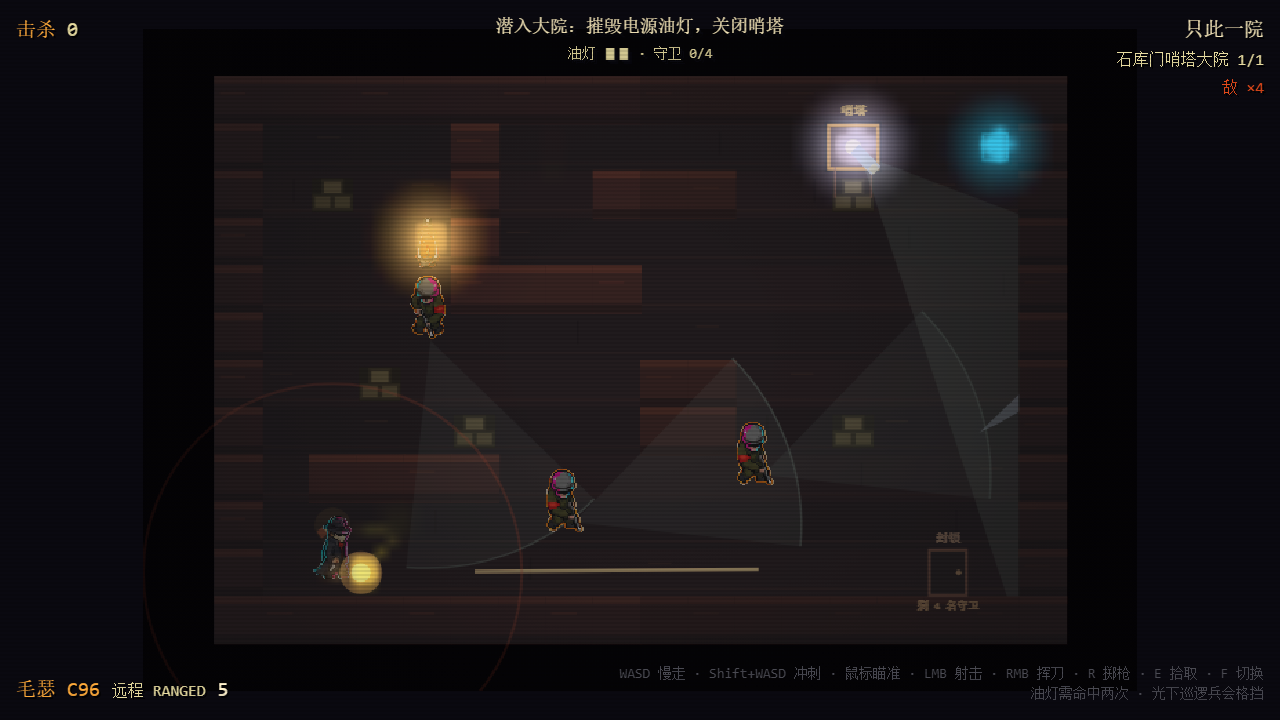
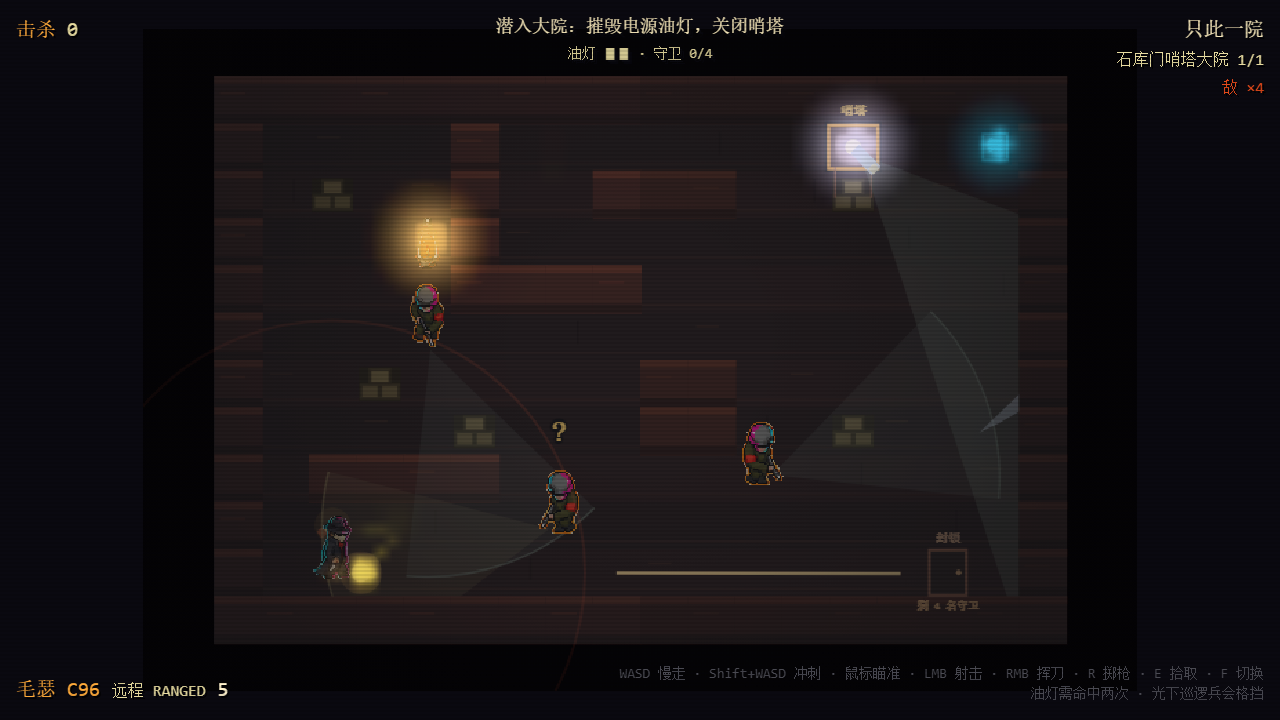
fix(hotline): B66 子弹拆灯与近战同权 — 灯死即光池坍缩 + 塔楼断电 (Simulation.ts 弹道拆灯路径启动 invalidationTimer, 消除 RC 光池残留 artifact); light-break-check.mjs 增子弹拆灯回归段 (真实弹道, 非确定性规避); 刷新 smoke 截图

diff --git a/7_hotlineShanghai/src/core/simulation/Simulation.ts b/7_hotlineShanghai/src/core/simulation/Simulation.ts
@@ -269,6 +269,13 @@ export class Simulation implements ISimulation {
               if (result.hit) {
                 this.emit({ kind: 'lightSmash', lightId: lamp.id, position: { ...lamp.position }, hp: result.hp, state: result.state, cause: 'weapon' });
                 this.emitNoise('lamp_smash', lamp.position, LAMP_SMASH_NOISE_RADIUS);
+                // B66 修复:子弹拆灯与近战拆灯同权——灯死即启动光池坍缩 + 塔楼断电。
+                // 旧版只有近战路径启动,子弹拆灯后 invalidationTimer 不跑 → lamp.invalidated
+                // 永不为真 → RC 种子盘继续画 → 灯碎了光池仍亮(RC 视觉 artifact:光在不该在的地方)。
+                if (result.state === 'dead' && this.invalidationTimer < 0 && !lamp.invalidated) {
+                  this.invalidationTimer = LIGHT_POOL_DOWN_S;
+                  this.destroyTowerPower();
+                }
                 dead = true;
               }
             }
